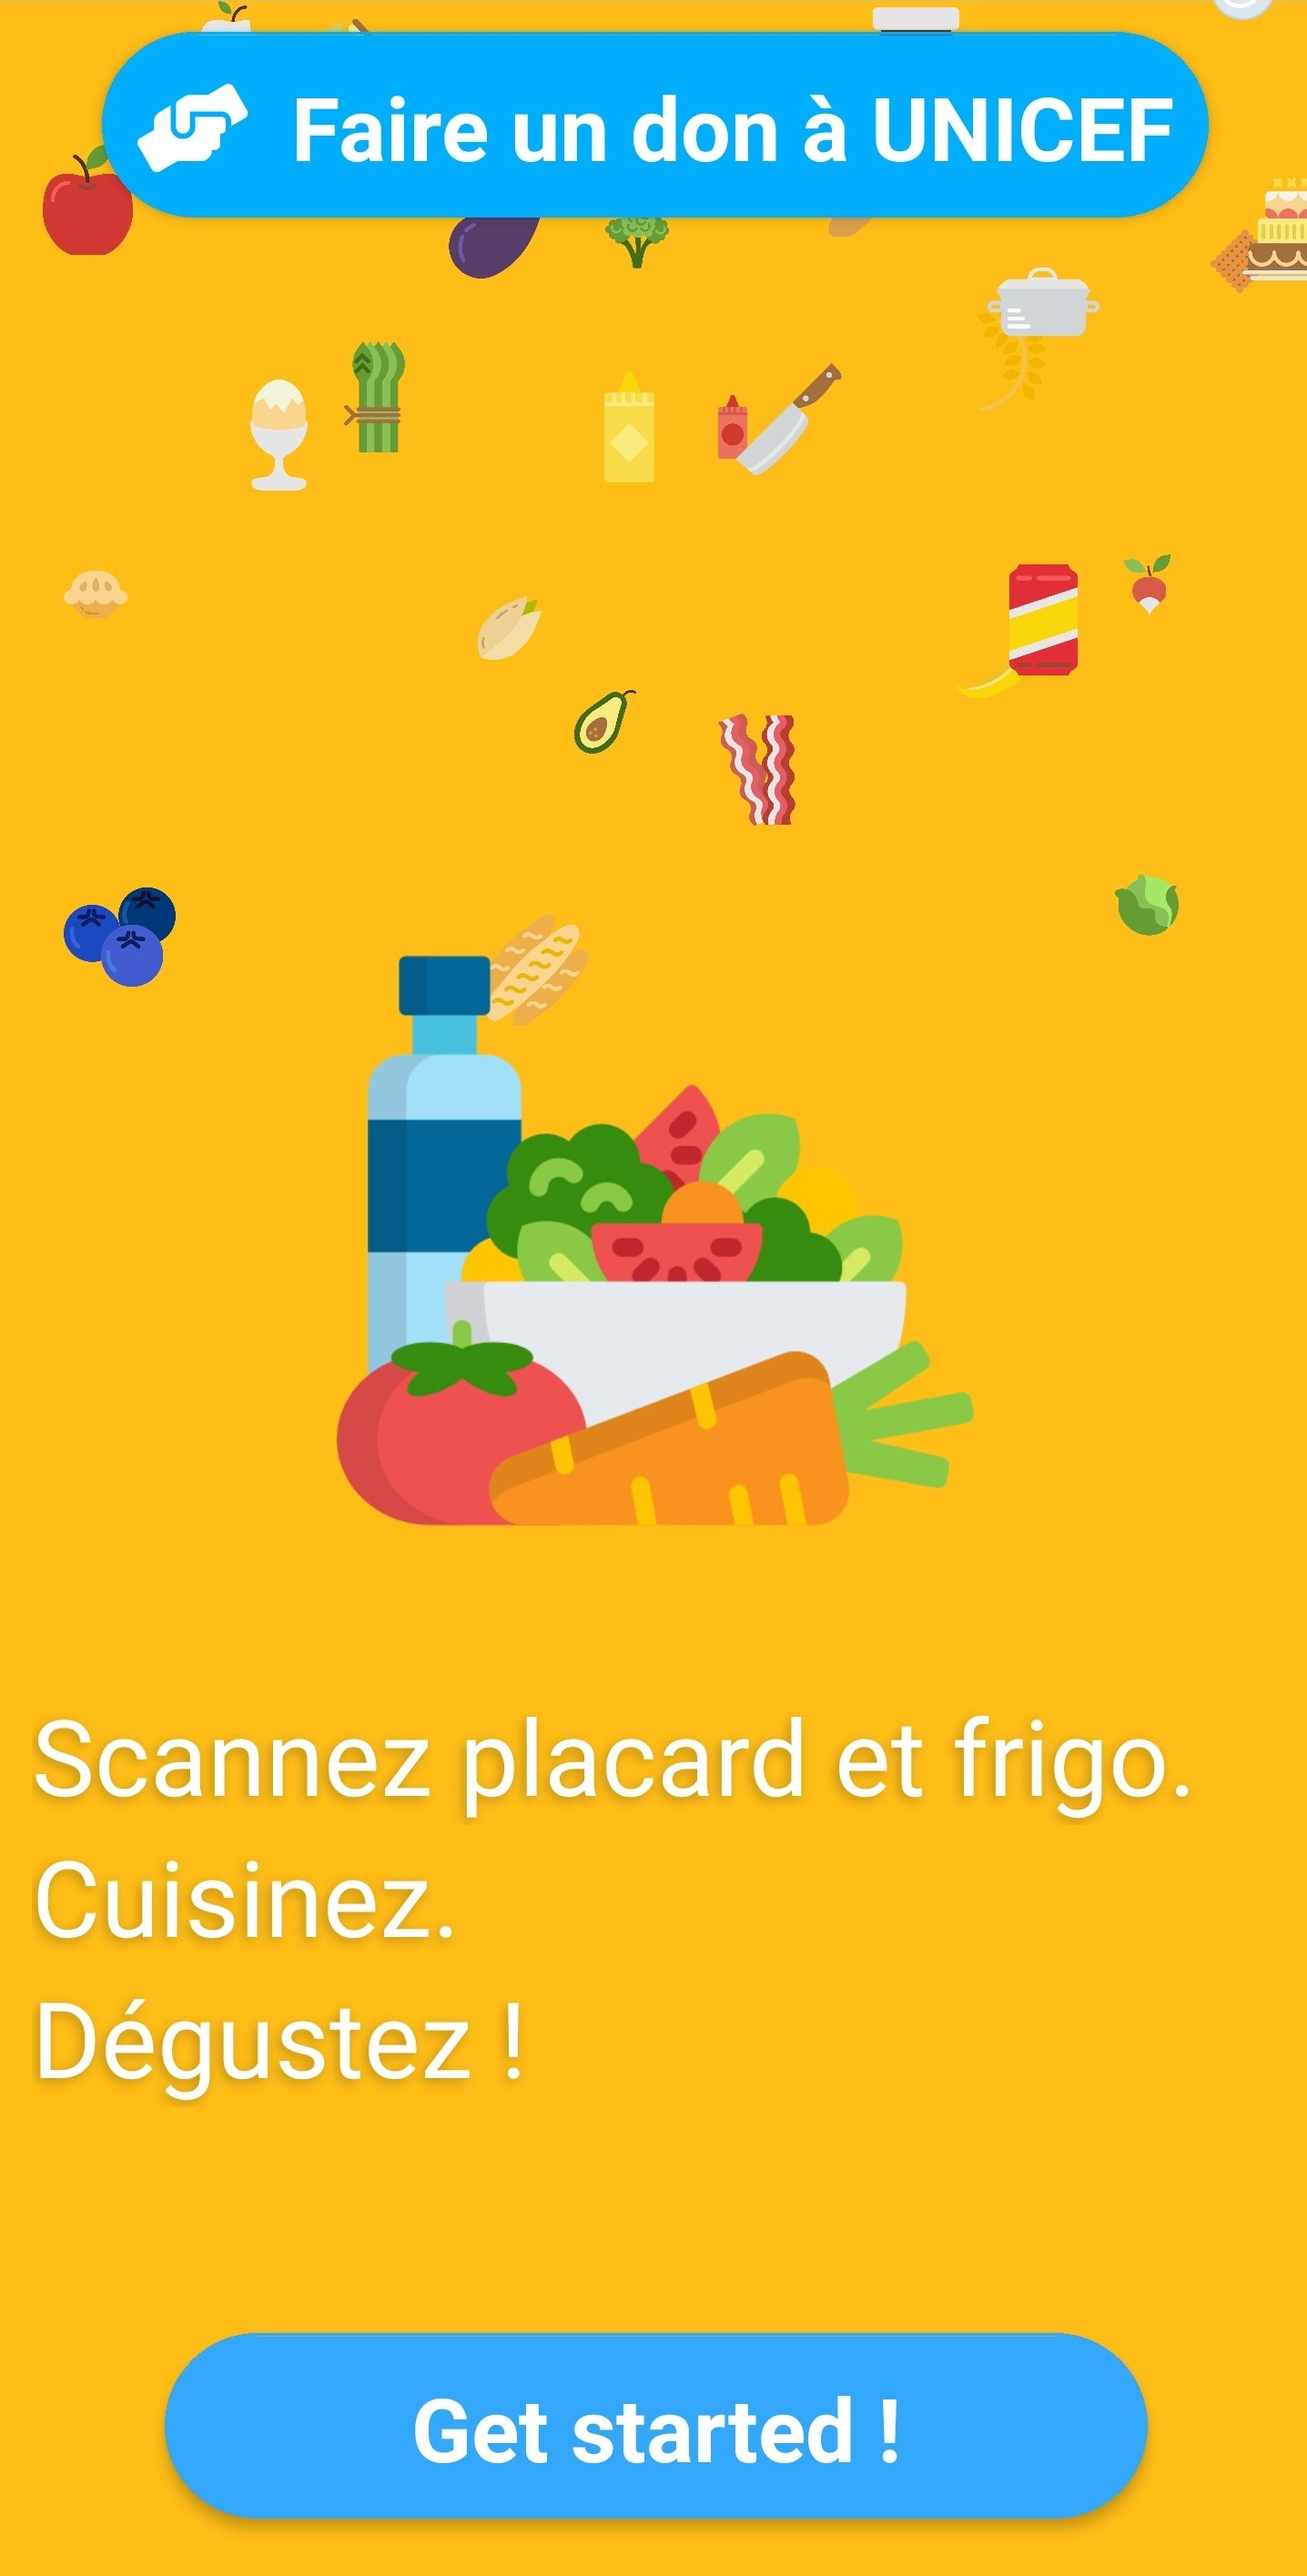
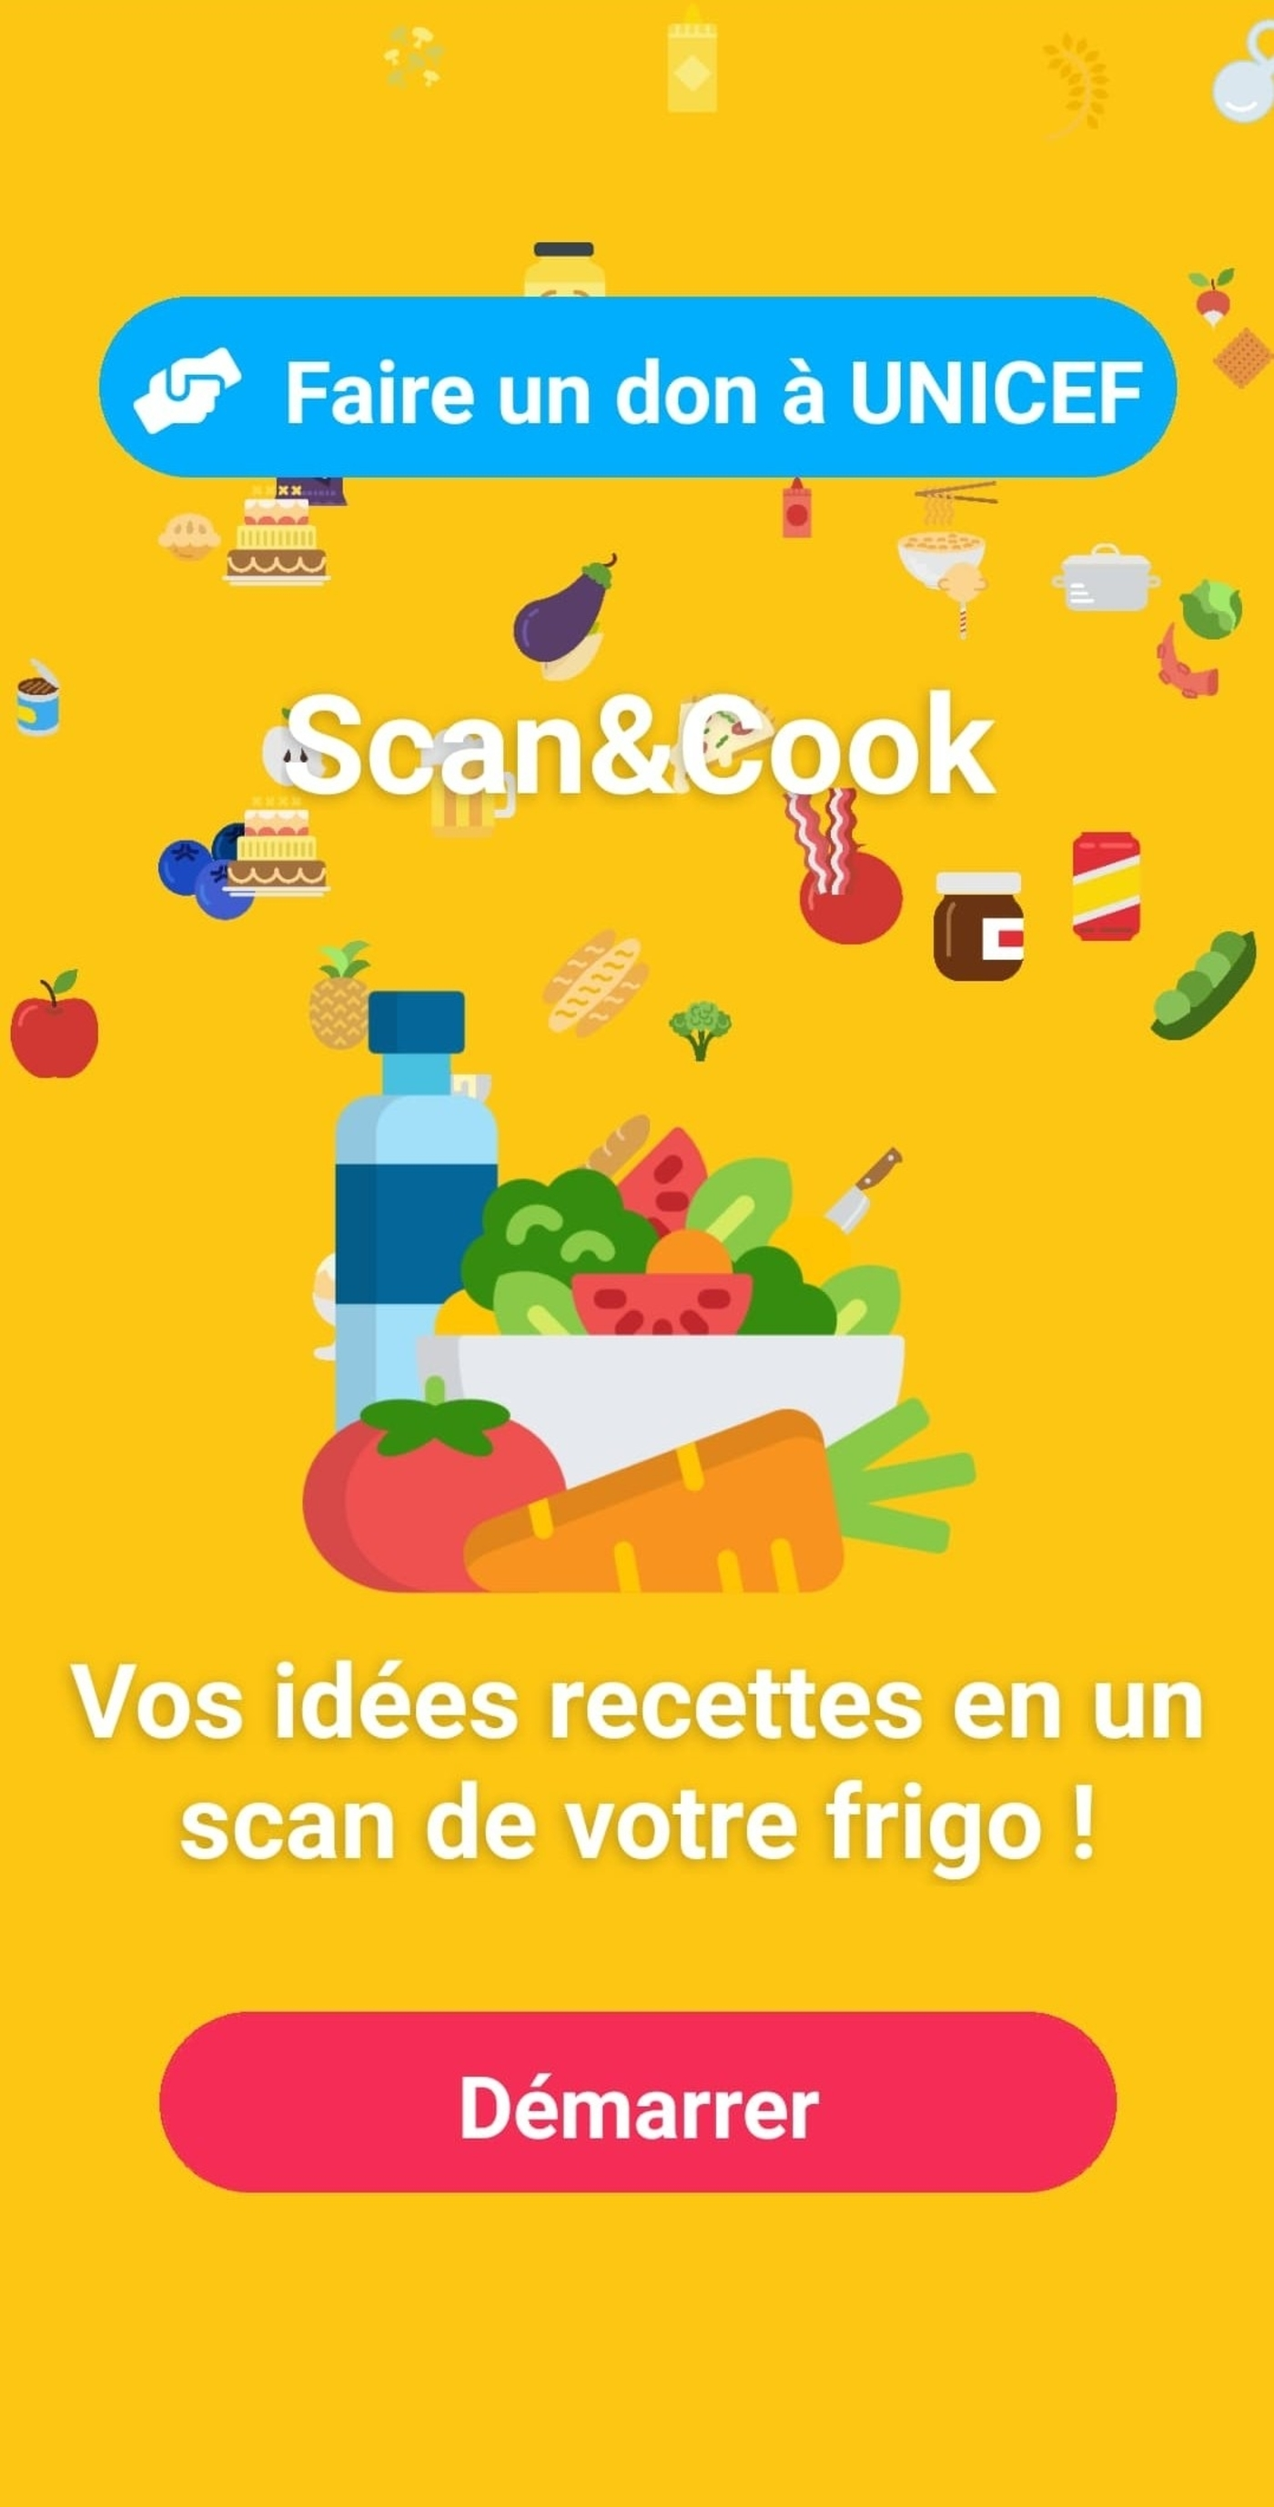
[features] Update screenshots

diff --git a/index.html b/index.html
@@ -198,20 +198,17 @@
         			<h2>Screenshots</h2>
         		</div>
         		<div class="screenshot_inner owl-carousel">
-        			<div class="item">
-        				<img  alt="Scan & Cook" src="img/screen/screen2.jpg">
-        			</div>
 					<div class="item">
         				<img  alt="Scan & Cook" src="img/screen/screen3.jpg">
-        			</div>
-        			<div class="item">
-        				<img  alt="Scan & Cook" src="img/screen/screen4.jpg">
+					</div>
+					<div class="item">
+        				<img  alt="Scan & Cook" src="img/screen/screen9.jpg">
+					</div>
+					<div class="item">
+        				<img  alt="Scan & Cook" src="img/screen/screen8.jpg">
         			</div>
 					<div class="item">
-        				<img  alt="Scan & Cook" src="img/screen/screen5.jpg">
-        			</div>
-					<div class="item">
-        				<img  alt="Scan & Cook" src="img/screen/screen6.jpg">
+        				<img  alt="Scan & Cook" src="img/screen/screen10.jpg">
         			</div>
         		</div>
         	</div>
